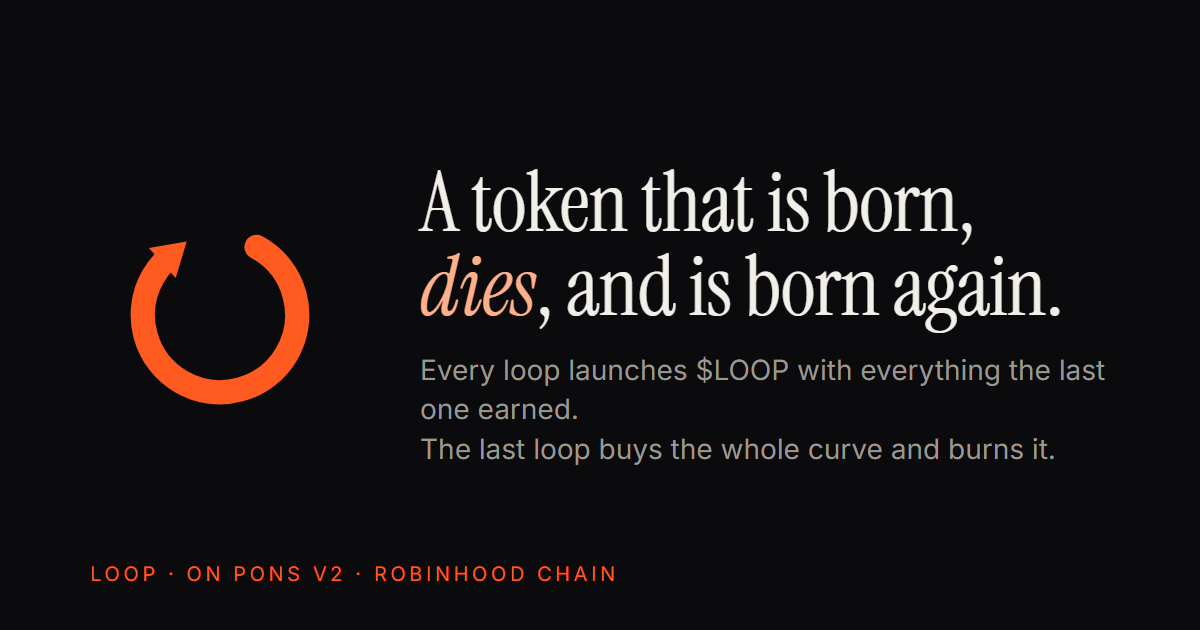
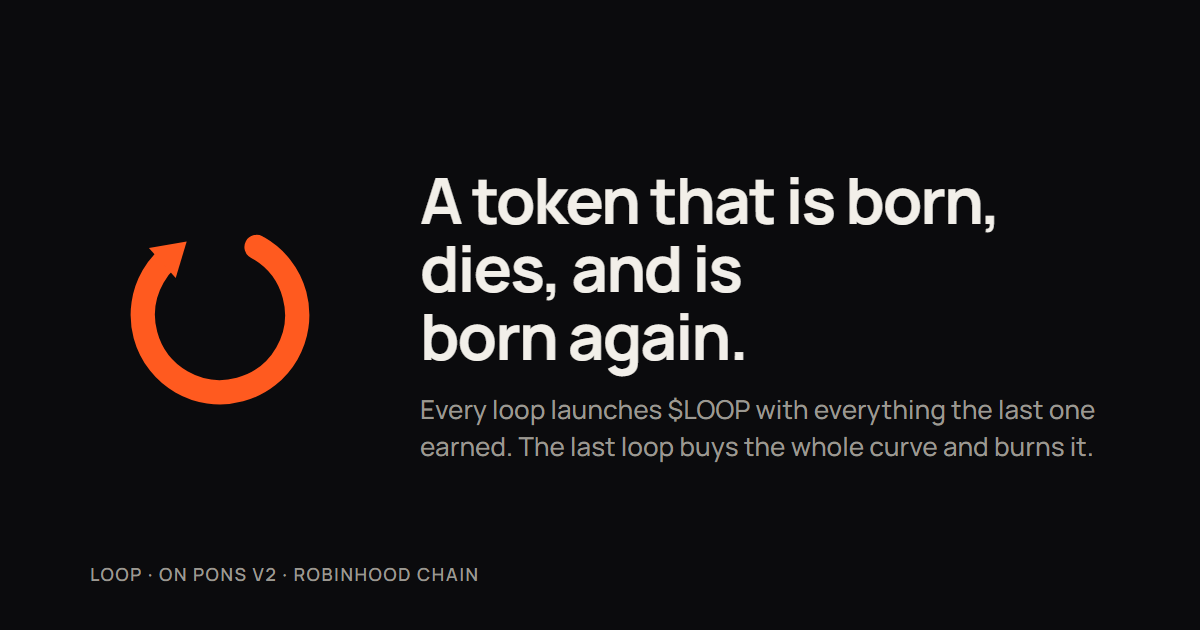
Site: Manrope like Claudeploy, one text color, embers, counting numbers, scroll reveal

Changed region(s): [[0.3392, 0.2714, 0.925, 0.6032], [0.3392, 0.6333, 0.925, 0.754], [0.0617, 0.8746, 0.5242, 0.9349]]

diff --git a/public/style.css b/public/style.css
@@ -9,9 +9,10 @@
   --ember-2: #ffb08a;
   --ash: #5d5b56;
   --ok: #7ad38b;
-  --sans: "Inter", system-ui, -apple-system, "Segoe UI", sans-serif;
-  --serif: "Instrument Serif", Georgia, "Times New Roman", serif;
-  --mono: "JetBrains Mono", ui-monospace, SFMono-Regular, Menlo, monospace;
+  /* mesma tipografia do Claudeploy: Manrope em tudo, mono do sistema so em enderecos */
+  --sans: "Manrope", -apple-system, BlinkMacSystemFont, "Segoe UI", Roboto, Helvetica, Arial, sans-serif;
+  --serif: "Manrope", -apple-system, BlinkMacSystemFont, "Segoe UI", Roboto, Helvetica, Arial, sans-serif;
+  --mono: ui-monospace, SFMono-Regular, Menlo, Consolas, monospace;
 }
 * { box-sizing: border-box; }
 [hidden] { display: none !important; }
@@ -19,15 +20,24 @@ html { color-scheme: dark; }
 body { margin: 0; background: var(--bg); color: var(--text); font-family: var(--sans); font-size: 16px; line-height: 1.55; -webkit-font-smoothing: antialiased; }
 a { color: inherit; }
 b { font-weight: 600; }
-code { font-family: var(--mono); }
-.num { font-family: var(--mono); font-variant-numeric: tabular-nums; }
+code { font-family: var(--mono); font-size: .92em; }
+.num { font-variant-numeric: tabular-nums; font-weight: 600; letter-spacing: -.01em; }
+code.num { font-weight: 500; letter-spacing: 0; }
 .muted { color: var(--muted); }
 .err { color: var(--ember); min-height: 1.4em; margin: 6px 0 0; font-size: 14px; }
 main { max-width: 980px; margin: 0 auto; padding: 0 20px 60px; }
 
+/* brasas no fundo, atras de tudo */
+#embers { position: fixed; inset: 0; width: 100%; height: 100%; z-index: 0; pointer-events: none; }
+.top, main, footer { position: relative; z-index: 1; }
+
+/* cartoes surgem ao rolar */
+.reveal { opacity: 0; transform: translateY(16px); transition: opacity .7s ease, transform .7s ease; }
+.reveal.in { opacity: 1; transform: none; }
+
 /* topo */
 .top { max-width: 980px; margin: 0 auto; padding: 22px 20px; display: flex; align-items: center; justify-content: space-between; gap: 16px; }
-.brand { display: flex; align-items: center; gap: 10px; text-decoration: none; font-family: var(--serif); font-size: 28px; letter-spacing: 0.01em; }
+.brand { display: flex; align-items: center; gap: 10px; text-decoration: none; font-weight: 700; font-size: 19px; letter-spacing: -.02em; }
 .brand .ring { width: 30px; height: 30px; fill: none; stroke: var(--ember); stroke-width: 6; stroke-linecap: round; stroke-linejoin: round; }
 .brand .ring .head { fill: var(--ember); stroke: none; }
 .links { display: flex; gap: 18px; font-size: 14px; }
@@ -37,42 +47,43 @@ main { max-width: 980px; margin: 0 auto; padding: 0 20px 60px; }
 /* hero */
 .hero { padding: 40px 0 34px; display: grid; grid-template-columns: 220px minmax(0, 1fr); gap: 36px; align-items: center; }
 .hero-text { min-width: 0; }
-.hero h1 { font-family: var(--serif); font-weight: 400; font-size: clamp(38px, 6vw, 62px); line-height: 1.02; margin: 0 0 16px; letter-spacing: -0.01em; }
-.hero h1 em { font-style: italic; color: var(--ember-2); }
+.hero h1 { font-weight: 600; font-size: clamp(36px, 5.8vw, 64px); line-height: 1.12; margin: 0 0 16px; letter-spacing: -.03em; }
+.hero h1 em { font-style: normal; color: inherit; }
 .lead { font-size: 17px; color: var(--muted); margin: 0; max-width: 60ch; }
-.lead b { color: var(--text); }
-.lead em { font-style: italic; color: var(--text); }
+.lead b { color: var(--text); font-weight: 600; }
+.lead em { font-style: normal; color: var(--text); font-weight: 600; }
 .loop-mark { position: relative; width: 220px; height: 220px; }
 .loop-mark svg { width: 100%; height: 100%; fill: none; stroke-linecap: round; stroke-linejoin: round; }
 .loop-mark .track { stroke: var(--line); stroke-width: 6; }
-.loop-mark .arc { stroke: var(--ember); stroke-width: 6; stroke-dasharray: 78 22; transform-origin: 50% 50%; animation: spin 14s linear infinite; }
+.loop-mark .arc { stroke: var(--ember); stroke-width: 6; stroke-dasharray: 78 22; transform-origin: 50% 50%; filter: drop-shadow(0 0 7px rgba(255,90,31,.6)); animation: spin 14s linear infinite, breathe 3.6s ease-in-out infinite; }
+@keyframes breathe { 0%, 100% { stroke-dasharray: 78 22; opacity: 1; } 50% { stroke-dasharray: 66 34; opacity: .8; } }
 .loop-mark .arrow { stroke: var(--ember); stroke-width: 6; opacity: 0; }
 .loop-mark.dead .arc, .loop-mark.dead .arrow { stroke: var(--ash); animation: none; }
 .loop-mark.waiting .arc { animation-duration: 40s; stroke: var(--ember-2); }
 .loop-mark.burned .arc { stroke: var(--ash); stroke-dasharray: 100 0; animation: none; opacity: 0.6; }
-.mark-n { position: absolute; inset: 0; display: flex; flex-direction: column; align-items: center; justify-content: center; font-family: var(--mono); }
-.mark-n .mark-label { font-size: 12px; letter-spacing: 0.2em; text-transform: uppercase; color: var(--muted); }
-.mark-n #mark-n { font-size: 56px; line-height: 1; font-family: var(--serif); }
+.mark-n { position: absolute; inset: 0; display: flex; flex-direction: column; align-items: center; justify-content: center; }
+.mark-n .mark-label { font-size: 12px; letter-spacing: 0.16em; text-transform: uppercase; color: var(--muted); font-weight: 600; }
+.mark-n #mark-n { font-size: 48px; line-height: 1; font-weight: 700; letter-spacing: -.03em; }
 @keyframes spin { to { transform: rotate(360deg); } }
 
 /* cartoes */
 .card { background: var(--bg-2); border: 1px solid var(--line); border-radius: 18px; padding: 24px; margin: 18px 0; }
 .row { display: flex; align-items: center; gap: 12px; flex-wrap: wrap; }
 .row.head { justify-content: space-between; align-items: flex-start; margin-bottom: 14px; }
-.eyebrow { font-size: 12px; letter-spacing: 0.18em; text-transform: uppercase; color: var(--ember); margin-bottom: 4px; }
-h2 { font-family: var(--serif); font-weight: 400; font-size: 30px; margin: 0; line-height: 1.1; }
-.pill { font-family: var(--mono); font-size: 12px; letter-spacing: 0.08em; text-transform: uppercase; padding: 6px 12px; border-radius: 999px; border: 1px solid var(--line); color: var(--muted); white-space: nowrap; }
-.pill.live { color: var(--ok); border-color: rgba(122,211,139,.35); }
+.eyebrow { font-size: 13px; letter-spacing: .04em; text-transform: uppercase; color: var(--muted); margin-bottom: 4px; font-weight: 600; }
+h2 { font-weight: 600; font-size: clamp(26px, 3.2vw, 34px); margin: 0; line-height: 1.12; letter-spacing: -.02em; }
+.pill { font-size: 12px; font-weight: 600; letter-spacing: .06em; text-transform: uppercase; padding: 6px 12px; border-radius: 999px; border: 1px solid var(--line); color: var(--muted); white-space: nowrap; }
+.pill.live { color: var(--text); border-color: rgba(122,211,139,.35); }
 .pill.live::before { content: ""; display: inline-block; width: 7px; height: 7px; border-radius: 50%; background: var(--ok); margin-right: 8px; box-shadow: 0 0 0 0 rgba(122,211,139,.6); animation: pulse 1.8s infinite; }
-.pill.warn { color: var(--ember-2); border-color: rgba(255,90,31,.4); }
+.pill.warn { color: var(--text); border-color: #3a3a44; }
 .pill.dead { color: var(--ash); }
 @keyframes pulse { 0% { box-shadow: 0 0 0 0 rgba(122,211,139,.6); } 100% { box-shadow: 0 0 0 10px rgba(122,211,139,0); } }
 .status-text { margin: 0 0 18px; color: var(--muted); }
 .stats { display: grid; grid-template-columns: repeat(3, minmax(0, 1fr)); gap: 14px; }
 .stat { border: 1px solid var(--line); border-radius: 12px; padding: 14px; background: rgba(255,255,255,.015); min-width: 0; }
 .num, code { overflow-wrap: anywhere; }
-.stat .k { font-size: 12px; text-transform: uppercase; letter-spacing: 0.12em; color: var(--muted); }
-.stat .v { font-size: 24px; margin-top: 4px; }
+.stat .k { font-size: 12px; text-transform: uppercase; letter-spacing: .06em; color: var(--muted); font-weight: 500; }
+.stat .v { font-size: 28px; margin-top: 4px; font-weight: 600; letter-spacing: -.02em; line-height: 1.1; }
 .stat .sub { font-size: 12px; color: var(--muted); margin-top: 2px; min-height: 1.2em; }
 .ca { margin-top: 18px; display: flex; align-items: center; gap: 10px; flex-wrap: wrap; }
 .ca .k { font-size: 12px; text-transform: uppercase; letter-spacing: 0.12em; color: var(--muted); }
@@ -80,24 +91,25 @@ h2 { font-family: var(--serif); font-weight: 400; font-size: 30px; margin: 0; li
 .rule { margin: 16px 0 0; font-size: 14px; color: var(--muted); }
 
 /* botoes */
-.btn { font: inherit; font-size: 14px; font-weight: 500; padding: 10px 16px; border-radius: 10px; border: 1px solid var(--line); background: transparent; color: var(--text); cursor: pointer; text-decoration: none; display: inline-flex; align-items: center; gap: 8px; }
+.btn { font: inherit; font-size: 14px; font-weight: 600; padding: 10px 16px; border-radius: 10px; border: 1px solid var(--line); background: transparent; color: var(--text); cursor: pointer; text-decoration: none; display: inline-flex; align-items: center; gap: 8px; }
 .btn:hover { border-color: #3a3a44; }
 .btn.small { padding: 6px 12px; font-size: 13px; }
 .btn.primary { background: var(--ember); border-color: var(--ember); color: #14100e; }
 .btn.primary:hover { background: #ff7040; }
-.btn.danger { border-color: rgba(255,90,31,.5); color: var(--ember-2); }
+.btn.danger { border-color: rgba(255,90,31,.5); color: var(--text); }
 .btn.burn { background: var(--ember); border-color: var(--ember); color: #14100e; grid-column: 1 / -1; font-size: 16px; padding: 14px; }
 .btn:disabled { opacity: .5; cursor: not-allowed; }
 
 /* pote */
-.big { font-size: 34px; }
+.big { font-size: 28px; font-weight: 600; letter-spacing: -.02em; line-height: 1.1; }
 .bar { height: 14px; border-radius: 999px; background: var(--bg); border: 1px solid var(--line); overflow: hidden; }
-.fill { height: 100%; width: 0%; background: linear-gradient(90deg, #ff5a1f, #ffb08a); transition: width .8s ease; }
+.fill { height: 100%; width: 0%; background: linear-gradient(90deg, #ff5a1f, #ffb08a, #ff5a1f); background-size: 200% 100%; transition: width 1.2s ease; animation: shimmer 3s linear infinite; }
+@keyframes shimmer { to { background-position: -200% 0; } }
 .pot-legend { display: flex; justify-content: space-between; margin: 10px 0 14px; font-size: 14px; color: var(--muted); }
 .pot-legend b { color: var(--text); }
 .pot .muted { margin: 0; font-size: 14px; }
 .final-box { margin-top: 16px; padding: 16px; border-radius: 12px; border: 1px solid rgba(255,90,31,.5); background: rgba(255,90,31,.06); font-size: 15px; }
-.final-box b { color: var(--ember-2); }
+.final-box b { color: var(--text); }
 
 /* linha do tempo */
 .timeline { list-style: none; margin: 0; padding: 0 0 0 26px; border-left: 2px solid var(--line); }
@@ -107,7 +119,7 @@ h2 { font-family: var(--serif); font-weight: 400; font-size: 30px; margin: 0; li
 .timeline li.burned::before { border-color: var(--ember); background: var(--ember); }
 .timeline li.graduated::before { border-color: var(--ember-2); }
 .timeline .t-head { display: flex; gap: 12px; align-items: baseline; flex-wrap: wrap; }
-.timeline .t-head b { font-family: var(--serif); font-size: 22px; font-weight: 400; }
+.timeline .t-head b { font-size: 20px; font-weight: 600; letter-spacing: -.02em; }
 .timeline .t-meta { font-size: 13px; color: var(--muted); }
 .timeline .t-grid { display: grid; grid-template-columns: repeat(auto-fit, minmax(130px, 1fr)); gap: 8px 16px; margin-top: 8px; font-size: 13px; }
 .timeline .t-grid span { color: var(--muted); }
@@ -143,6 +155,12 @@ h2 { font-family: var(--serif); font-weight: 400; font-size: 30px; margin: 0; li
 
 footer { max-width: 980px; margin: 0 auto; padding: 24px 20px 40px; border-top: 1px solid var(--line); font-size: 13px; display: flex; justify-content: space-between; gap: 12px; flex-wrap: wrap; }
 footer a { color: var(--muted); }
+
+@media (prefers-reduced-motion: reduce) {
+  .loop-mark .arc, .fill, .pill.live::before { animation: none; }
+  .reveal { opacity: 1; transform: none; transition: none; }
+  #embers { display: none; }
+}
 
 @media (max-width: 720px) {
   .hero { grid-template-columns: 1fr; gap: 20px; padding-top: 16px; }

diff --git a/public/app.js b/public/app.js
@@ -24,6 +24,56 @@
   const esc = (s) => String(s ?? '').replace(/[&<>"']/g, (c) => ({ '&': '&amp;', '<': '&lt;', '>': '&gt;', '"': '&quot;', "'": '&#39;' }[c]));
 
   let state = null;
+  const reduced = window.matchMedia && window.matchMedia('(prefers-reduced-motion: reduce)').matches;
+
+  // Numeros que contam: de onde estavam ate o valor novo, em ~0,9 s.
+  const shown = new Map();
+  function setNum(id, value, format) {
+    const el = $(id);
+    if (value == null || !isFinite(value)) { el.textContent = '—'; shown.delete(id); return; }
+    const from = shown.has(id) ? shown.get(id) : 0;
+    shown.set(id, value);
+    if (reduced || from === value) { el.textContent = format(value); return; }
+    const t0 = performance.now(), dur = 900;
+    const step = (t) => {
+      const k = Math.min(1, (t - t0) / dur), e = 1 - Math.pow(1 - k, 3);
+      el.textContent = format(from + (value - from) * e);
+      if (k < 1 && shown.get(id) === value) requestAnimationFrame(step);
+    };
+    requestAnimationFrame(step);
+  }
+
+  // Cartoes surgem ao rolar.
+  const io = 'IntersectionObserver' in window && !reduced ? new IntersectionObserver((es) => { for (const e of es) if (e.isIntersecting) { e.target.classList.add('in'); io.unobserve(e.target); } }, { threshold: 0.08 }) : null;
+  document.querySelectorAll('.card').forEach((c) => { if (io) { c.classList.add('reveal'); io.observe(c); } });
+  // Rede de seguranca: se o observador nao disparar, tudo aparece mesmo assim.
+  setTimeout(() => document.querySelectorAll('.reveal').forEach((c) => c.classList.add('in')), 1800);
+
+  // Brasas subindo no fundo: poucas, lentas, atras de tudo.
+  (function embers() {
+    const cv = $('embers');
+    if (!cv || reduced) return;
+    const ctx = cv.getContext('2d');
+    let W = 0, H = 0, ps = [], raf = 0;
+    const rnd = (a, b) => a + Math.random() * (b - a);
+    const spawn = (fresh) => ({ x: rnd(0, W), y: fresh ? rnd(0, H) : H + 10, r: rnd(0.8, 2.6), v: rnd(0.15, 0.55), sway: rnd(0.4, 1.4), ph: rnd(0, 6.28), a: rnd(0.25, 0.8), life: rnd(0.6, 1) });
+    const resize = () => { W = cv.width = innerWidth; H = cv.height = innerHeight; const n = Math.min(70, Math.round(W / 18)); ps = Array.from({ length: n }, () => spawn(true)); };
+    const draw = (t) => {
+      ctx.clearRect(0, 0, W, H);
+      for (const p of ps) {
+        p.y -= p.v; p.x += Math.sin(t / 1400 + p.ph) * p.sway * 0.15;
+        const fade = Math.min(1, (H - p.y) / (H * 0.25)) * Math.min(1, p.y / (H * 0.35));
+        ctx.beginPath(); ctx.arc(p.x, p.y, p.r, 0, 6.28);
+        ctx.fillStyle = `rgba(255, ${Math.round(90 + 90 * (1 - p.life))}, 31, ${(p.a * fade).toFixed(3)})`;
+        ctx.fill();
+        if (p.y < -10) Object.assign(p, spawn(false));
+      }
+      raf = requestAnimationFrame(draw);
+    };
+    addEventListener('resize', resize);
+    document.addEventListener('visibilitychange', () => { if (document.hidden) cancelAnimationFrame(raf); else raf = requestAnimationFrame(draw); });
+    resize(); raf = requestAnimationFrame(draw);
+  })();
 
   const PHASES = {
     live: ['alive', 'live'], launching: ['being born', 'warn'], dying: ['dying', 'warn'], resting: ['resting before rebirth', 'warn'],
@@ -63,18 +113,17 @@
     $('death-rule').textContent = l && l.status === 'live' ? `Born ${ago(l.bornAt)} · last buy ${l.lastBuyAt ? ago(l.lastBuyAt) : 'never'} · dev buy ${fmtEth(l.devBuyEth)} → ${Number(l.tokensBought).toLocaleString('en-US', { maximumFractionDigits: 0 })} tokens` : '';
 
     if (l) {
-      const mcapUsd = usd ? l.mcapEth * usd : null, peakUsd = usd ? l.peakMcapEth * usd : null;
-      $('s-mcap').textContent = usd ? fmtUsd(mcapUsd) : fmtEth(l.mcapEth, 3);
+      if (usd) setNum('s-mcap', l.mcapEth * usd, fmtUsd); else setNum('s-mcap', l.mcapEth, (v) => fmtEth(v, 3));
       $('s-mcap-eth').textContent = usd ? fmtEth(l.mcapEth, 3) : '';
-      $('s-peak').textContent = usd ? fmtUsd(peakUsd) : fmtEth(l.peakMcapEth, 3);
+      if (usd) setNum('s-peak', l.peakMcapEth * usd, fmtUsd); else setNum('s-peak', l.peakMcapEth, (v) => fmtEth(v, 3));
       $('s-peak-at').textContent = l.peakAt ? ago(l.peakAt) : '';
-      $('s-buys').textContent = l.buys;
+      setNum('s-buys', l.buys, (v) => String(Math.round(v)));
       $('s-biggest').textContent = Number(l.biggestBuyEth) > 0 ? 'biggest ' + fmtEth(l.biggestBuyEth) : 'from others';
-      $('s-fees').textContent = l.status === 'live' ? fmtEth(l.pendingFeesEth) : fmtEth(l.feesEth);
+      setNum('s-fees', Number(l.status === 'live' ? l.pendingFeesEth : l.feesEth), (v) => fmtEth(v));
       $('s-tax').textContent = s.rules.creatorTaxPct + '%';
       $('s-age').textContent = dur(l.bornAt, l.diedAt);
       $('s-born').textContent = l.status === 'live' ? 'and counting' : (l.deathReason || '');
-      $('s-grad').textContent = (l.graduationPct || 0).toFixed(1) + '%';
+      setNum('s-grad', l.graduationPct || 0, (v) => v.toFixed(1) + '%');
       $('s-raised').textContent = 'raised ' + fmtEth(l.raisedEth, 3);
       $('ca-row').hidden = false;
       $('ca').textContent = l.token;
@@ -87,8 +136,8 @@
     // pote
     const pot = Number(s.potEth || 0), cost = s.curveCost ? Number(s.curveCost.eth) : null;
     const pct = cost ? Math.min(100, pot / cost * 100) : 0;
-    $('pot-pct').textContent = cost ? pct.toFixed(1) + '%' : '—';
-    $('pot-fill').style.width = pct + '%';
+    if (cost) setNum('pot-pct', pct, (v) => v.toFixed(1) + '%'); else $('pot-pct').textContent = '—';
+    requestAnimationFrame(() => { $('pot-fill').style.width = pct + '%'; });
     $('pot-eth').textContent = fmtEth(s.potEth) + (usd ? ' · ' + fmtUsd(pot * usd) : '');
     $('curve-cost').textContent = cost ? fmtEth(cost, 3) + (usd ? ' · ' + fmtUsd(cost * usd) : '') : 'measuring…';
     const fb = $('final-box');

diff --git a/brand/og.html b/brand/og.html
@@ -1,14 +1,14 @@
 <!doctype html>
 <html><head><meta charset="utf-8">
-<link href="https://fonts.googleapis.com/css2?family=Instrument+Serif:ital@0;1&family=Inter:wght@400;500&display=swap" rel="stylesheet">
+<link href="https://fonts.googleapis.com/css2?family=Manrope:wght@400;500;600;700&display=swap" rel="stylesheet">
 <style>
-  html, body { margin: 0; background: #0b0b0d; color: #f2efe9; font-family: "Inter", system-ui, sans-serif; }
+  html, body { margin: 0; background: #0b0b0d; color: #f2efe9; font-family: "Manrope", system-ui, sans-serif; }
   body { width: 1200px; height: 630px; overflow: hidden; display: flex; align-items: center; gap: 70px; padding: 0 90px; box-sizing: border-box; }
   svg { width: 260px; height: 260px; flex: none; }
-  h1 { font-family: "Instrument Serif", Georgia, serif; font-weight: 400; font-size: 84px; line-height: 1; margin: 0 0 22px; letter-spacing: -0.01em; }
-  h1 em { color: #ffb08a; }
-  p { font-size: 28px; color: #9b9891; margin: 0; line-height: 1.4; }
-  .tag { position: absolute; left: 90px; bottom: 44px; font-family: "Inter", sans-serif; font-size: 20px; color: #ff5a1f; letter-spacing: .18em; text-transform: uppercase; }
+  h1 { font-weight: 700; font-size: 64px; line-height: 1.06; margin: 0 0 22px; letter-spacing: -.03em; }
+  h1 em { font-style: normal; color: inherit; }
+  p { font-size: 26px; color: #9b9891; margin: 0; line-height: 1.4; font-weight: 500; }
+  .tag { position: absolute; left: 90px; bottom: 44px; font-size: 18px; font-weight: 600; color: #9b9891; letter-spacing: .08em; text-transform: uppercase; }
 </style></head>
 <body>
 <svg viewBox="0 0 64 64" xmlns="http://www.w3.org/2000/svg">
@@ -18,8 +18,8 @@
   </g>
 </svg>
 <div>
-  <h1>A token that is born,<br><em>dies</em>, and is born again.</h1>
-  <p>Every loop launches $LOOP with everything the last one earned.<br>The last loop buys the whole curve and burns it.</p>
+  <h1>A token that is born,<br><em>dies</em>, and is<br>born again.</h1>
+  <p>Every loop launches $LOOP with everything the last one earned. The last loop buys the whole curve and burns it.</p>
 </div>
 <div class="tag">Loop · on pons v2 · Robinhood Chain</div>
 </body></html>

diff --git a/public/index.html b/public/index.html
@@ -13,10 +13,11 @@
 <link rel="icon" href="/brand/icon.svg" type="image/svg+xml">
 <link rel="preconnect" href="https://fonts.googleapis.com">
 <link rel="preconnect" href="https://fonts.gstatic.com" crossorigin>
-<link href="https://fonts.googleapis.com/css2?family=Instrument+Serif:ital@0;1&family=Inter:wght@400;500;600&family=JetBrains+Mono:wght@400;500&display=swap" rel="stylesheet">
+<link href="https://fonts.googleapis.com/css2?family=Manrope:wght@400;500;600;700&display=swap" rel="stylesheet">
 <link rel="stylesheet" href="/style.css">
 </head>
 <body>
+<canvas id="embers" aria-hidden="true"></canvas>
 
 <header class="top">
   <a class="brand" href="/">
